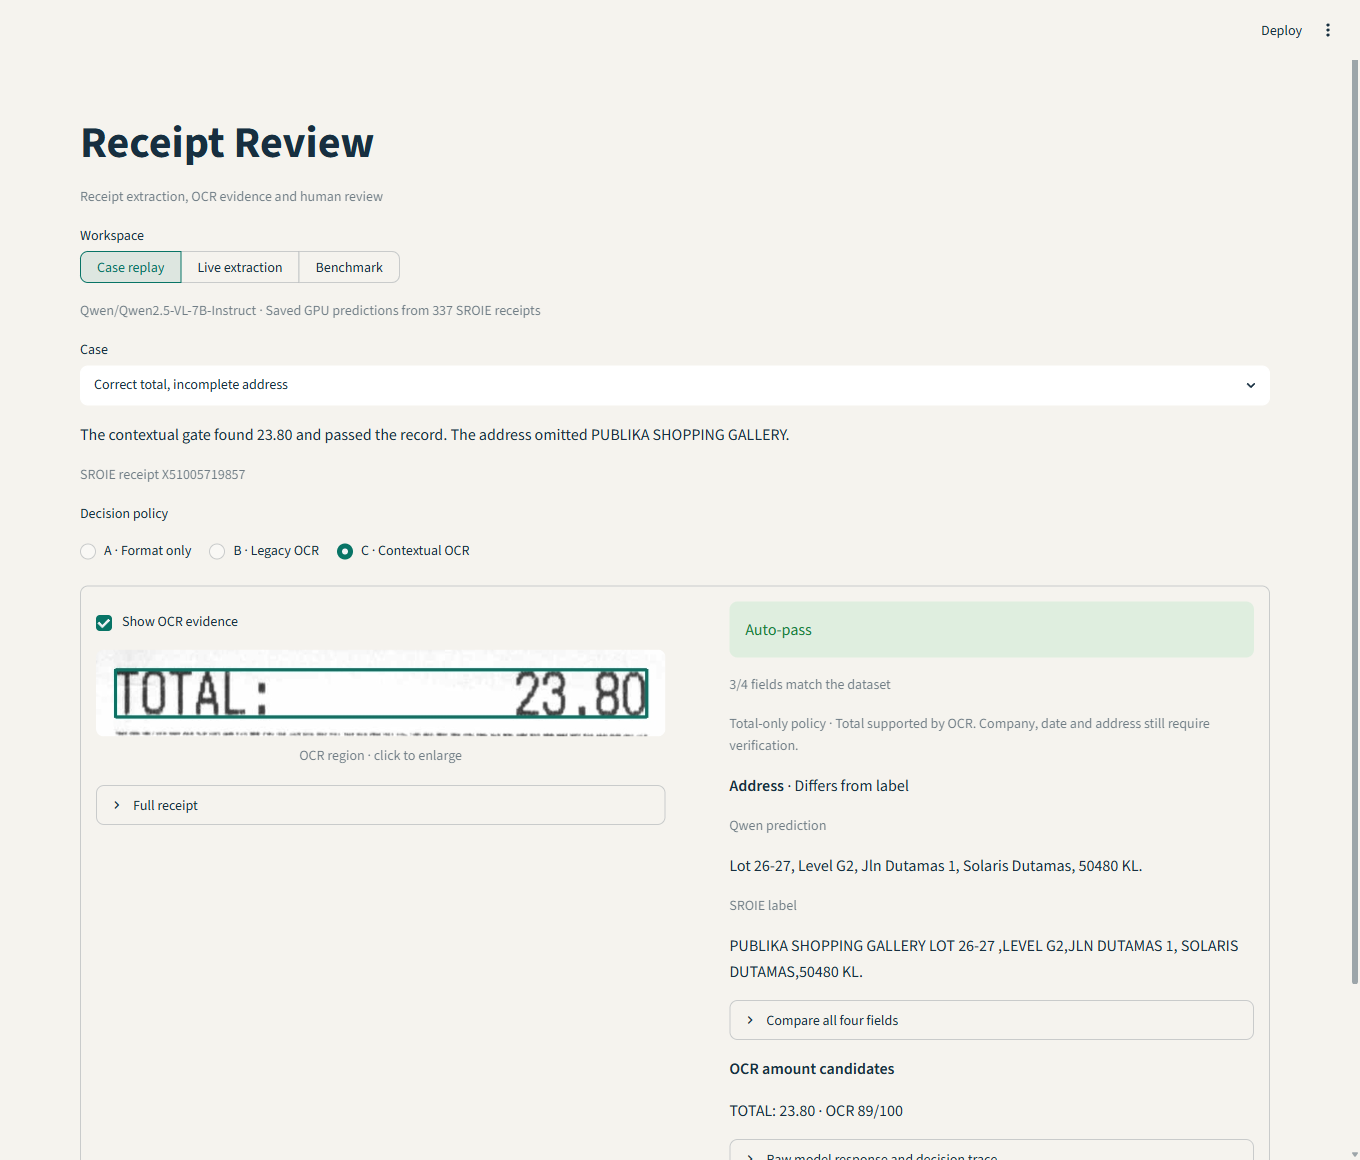
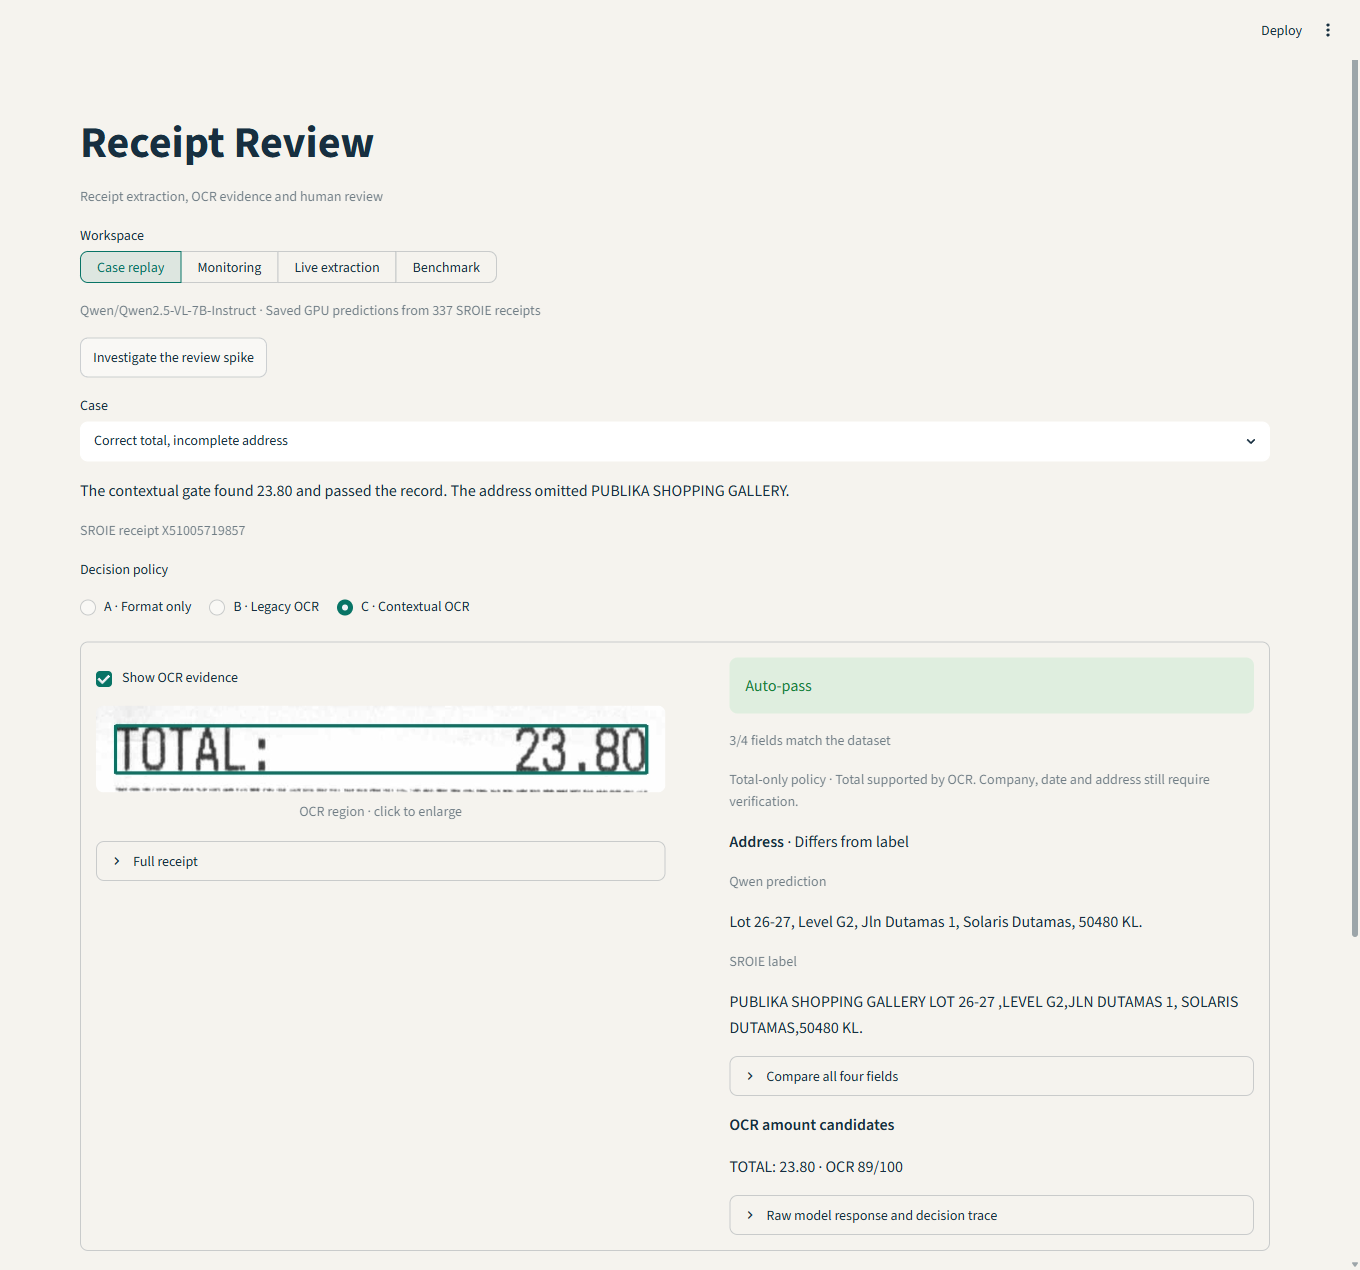
Tell the receipt review incident from alert to release decision

diff --git a/review_app.py b/review_app.py
@@ -12,6 +12,7 @@ from PIL import Image, ImageDraw
 
 from evaluation_metrics import GATES, gate_metrics
 from field_review import total_review_reasons
+from monitoring import INCIDENT_DAY, INCIDENT_RECEIPT, daily_operations, verification_text
 from receipt_pipeline import (
     FIELDS, OLLAMA_MODEL, OllamaBackend, TesseractBackend, extract_image,
     inventory, prepare_image, review_reasons, sha256_file, summarize,
@@ -146,12 +147,19 @@ def case_replay():
     source = bundle["provenance"]
     cases = {case["title"]: case for case in bundle["cases"]}
     st.caption(f"{source['model']} · Saved GPU predictions from {source['documents']} SROIE receipts")
+    incident_case = st.session_state.pop("open_incident_receipt", False)
+    if incident_case:
+        st.session_state.replay_case = next(name for name, case in cases.items()
+                                           if case["row"]["key"] == INCIDENT_RECEIPT)
+        st.session_state.replay_gate = GATES[2]
+    st.button("Investigate the review spike", on_click=navigate, args=("Monitoring",))
     choice = st.selectbox("Case", list(cases), key="replay_case")
     case = cases[choice]
     row = case["row"]
     st.write(case["lesson"])
     st.caption(f"SROIE receipt {row['key']}")
-    gate = st.radio("Decision policy", GATES, index=1, format_func=GATE_LABELS.get,
+    st.session_state.setdefault("replay_gate", GATES[1])
+    gate = st.radio("Decision policy", GATES, index=None, format_func=GATE_LABELS.get,
                     horizontal=True, key="replay_gate")
     selected = apply_gate(row, gate)
     candidates = selected["evidence"].get("candidates", [])
@@ -203,6 +211,63 @@ def case_replay():
                          "archive_sha256": source["archive_sha256"], "timings_ms": row["timings_ms"]})
                 st.download_button("Download recorded case", json.dumps(row, ensure_ascii=False, indent=2),
                                    f"{row['key']}.json", "application/json", on_click="ignore")
+    if row["key"] == INCIDENT_RECEIPT:
+        prompt_decision()
+
+
+def navigate(view, incident_receipt=False):
+    st.session_state.workspace = view
+    if incident_receipt:
+        st.session_state.open_incident_receipt = True
+
+
+def prompt_decision():
+    result = json.loads((PROJECT / "docs" / "address-dev10-result.json").read_text(encoding="utf-8"))
+    exact = result["metrics"]["address"]
+    st.subheader("Why we kept the original prompt")
+    st.caption(f"Measured Qwen A/B test · {result['documents']} diagnostic SROIE train receipts")
+    st.write(f"Address exact match stayed at {exact['baseline_correct']}/{result['documents']}. "
+             f"The new prompt fixed {exact['fixed']} address and regressed on {exact['regressed']}.")
+    st.table([
+        {"Receipt": "X51006008086", "Change": "Removed the extra AEON SHAH ALAM line",
+         "Result": "Fixed"},
+        {"Receipt": "X51006441474", "Change": "Included the printed Bentong-2 branch header",
+         "Result": "Regression"},
+    ])
+    st.write("The candidate failed the clean-control check. Keep the original prompt and test a dedicated address crop next.")
+
+
+def monitoring_view():
+    days = daily_operations()
+    by_day = {row["date"]: row for row in days}
+    st.subheader("Review operations")
+    st.caption("Simulated operations · 14 days. The linked receipt comes from the measured SROIE benchmark.")
+    selected = st.selectbox("Investigation date", list(by_day), index=list(by_day).index(INCIDENT_DAY),
+                            format_func=lambda day: day.strftime("%b %d, %Y"), key="monitor_day")
+    row = by_day[selected]
+    if selected == INCIDENT_DAY:
+        st.warning("Review spike · Address checks drove most of the new review work.")
+        st.button("Open recorded receipt", type="primary", on_click=navigate, args=("Case replay", True),
+                  help="Recorded SROIE benchmark example linked to illustrate the simulated incident.")
+    ops = st.columns(3)
+    ops[0].metric("Receipts", row["received"])
+    ops[1].metric("Needs review", f"{row['review_rate']:.1f}%")
+    ops[2].metric("End-of-day backlog", row["backlog"])
+    st.caption(f"Inference p95 {row['inference_p95_seconds']:.1f} s · "
+               f"{row['inference_errors']} inference errors · {row['completed']} reviews completed")
+    trend, detail = st.columns([1.12, 1], gap="large")
+    with trend:
+        st.markdown("**Daily review rate (%)**")
+        st.line_chart([{"Date": item["date"].isoformat(), "Needs review (%)": item["review_rate"]}
+                       for item in days], x="Date", y="Needs review (%)", height=220)
+    with detail:
+        st.markdown("**Selected day · Review reasons**")
+        st.table([{"Primary reason": reason, "Receipts": count} for reason, count in row["reasons"].items()])
+        st.markdown("**Verification**")
+        st.write(f"Address corrections · {verification_text(*row['address_edits'])}")
+        st.write(f"Total corrections · {verification_text(*row['total_edits'])}")
+        st.write(f"Errors in sampled auto-passes · {verification_text(*row['auto_pass_audit'])}")
+        st.caption("Corrections use verified fields as denominators. Auto-pass errors use audited receipts.")
 
 
 def new_receipt():
@@ -375,10 +440,13 @@ def benchmark_view():
 st.set_page_config(page_title="Receipt Review", layout="wide", initial_sidebar_state="collapsed")
 st.title("Receipt Review")
 st.caption("Receipt extraction, OCR evidence and human review")
-view = st.segmented_control("Workspace", ["Case replay", "Live extraction", "Benchmark"], default="Case replay",
-                            selection_mode="single")
+st.session_state.setdefault("workspace", "Case replay")
+view = st.segmented_control("Workspace", ["Case replay", "Monitoring", "Live extraction", "Benchmark"],
+                            selection_mode="single", key="workspace")
 if view == "Case replay":
     case_replay()
+elif view == "Monitoring":
+    monitoring_view()
 elif view == "Benchmark":
     benchmark_view()
 else:

diff --git a/monitoring.py b/monitoring.py
@@ -1,0 +1,46 @@
+"""Deterministic operations scenario for the portfolio walkthrough."""
+
+from datetime import date, timedelta
+
+START = date(2026, 11, 1)
+INCIDENT_DAY = START + timedelta(days=11)
+INCIDENT_RECEIPT = "X51005719857"
+
+# Volumes and adjudication counts are synthetic. The replay receipt is independent.
+DAILY_VOLUMES = (156, 163, 151, 167, 174, 158, 147, 166, 172, 170, 165, 228, 196, 176)
+
+
+def daily_operations():
+    days = []
+    backlog = 0
+    for index, volume in enumerate(DAILY_VOLUMES):
+        day = START + timedelta(days=index)
+        incident = day == INCIDENT_DAY
+        flagged = 146 if incident else volume * (31 + index % 4) // 100
+        address = 92 if incident else flagged // 2
+        total_evidence = 38 if incident else flagged // 3
+        completed = min(backlog + flagged, 71 if incident else 56 + index % 6)
+        verified = 0 if index == len(DAILY_VOLUMES) - 1 else min(completed, 41)
+        days.append({
+            "date": day, "received": volume, "flagged": flagged, "opening_backlog": backlog,
+            "completed": completed, "backlog": backlog + flagged - completed,
+            "review_rate": percent(flagged, volume),
+            "inference_p95_seconds": round(10.7 + (index % 5) * 0.1, 1),
+            "inference_errors": 1 + index % 2,
+            "reasons": {"Address check": address, "Unclear total evidence": total_evidence,
+                        "Other checks": flagged - address - total_evidence},
+            "address_edits": ((18 if incident else 5 + index % 3) if verified else 0, verified),
+            "total_edits": (2 if verified else 0, max(0, verified - 4)),
+            "auto_pass_audit": (0, 0) if not verified else (2 if incident else index % 2, 12),
+        })
+        backlog = days[-1]["backlog"]
+    return days
+
+
+def percent(count, denominator):
+    return 100 * count / denominator if denominator else None
+
+
+def verification_text(count, denominator):
+    value = percent(count, denominator)
+    return f"{count}/{denominator} ({value:.1f}%)" if value is not None else "Pending verification"

diff --git a/tests/test_monitoring.py b/tests/test_monitoring.py
@@ -1,0 +1,30 @@
+from monitoring import INCIDENT_DAY, daily_operations, percent, verification_text
+
+
+def test_daily_queue_and_review_reasons_reconcile():
+    days = daily_operations()
+    assert len({row["date"] for row in days}) == 14
+    previous_backlog = 0
+    for row in days:
+        assert row["opening_backlog"] == previous_backlog
+        assert row["backlog"] == previous_backlog + row["flagged"] - row["completed"]
+        assert 0 <= row["backlog"] and 0 <= row["flagged"] <= row["received"]
+        assert sum(row["reasons"].values()) == row["flagged"]
+        assert row["review_rate"] == percent(row["flagged"], row["received"])
+        for key in ("address_edits", "total_edits", "auto_pass_audit"):
+            count, denominator = row[key]
+            assert 0 <= count <= denominator
+        previous_backlog = row["backlog"]
+
+
+def test_incident_and_pending_day_have_distinct_signals():
+    days = daily_operations()
+    incident = next(row for row in days if row["date"] == INCIDENT_DAY)
+    prior = days[days.index(incident) - 1]
+    assert incident["received"] > prior["received"]
+    assert incident["review_rate"] > prior["review_rate"]
+    assert percent(*incident["address_edits"]) > percent(*prior["address_edits"])
+    assert percent(*incident["total_edits"]) == percent(*prior["total_edits"])
+    assert verification_text(*incident["auto_pass_audit"]) == "2/12 (16.7%)"
+    assert verification_text(*days[-1]["auto_pass_audit"]) == "Pending verification"
+    assert verification_text(*days[-1]["address_edits"]) == "Pending verification"

diff --git a/README.md b/README.md
@@ -1,8 +1,29 @@
 # Qwen Receipt Review
 
-**Turn a scanned receipt into structured JSON with traceable human review.** Qwen2.5-VL extracts the merchant, date, address, and total. Tesseract checks the total against the scan. A reviewer can correct the fields and export the original and approved values.
+**The total was correct. The receipt still needed a closer look.**
 
-[Input and output](#input-and-output) · [Try three recorded cases](#try-three-recorded-cases) · [Full benchmark](#full-benchmark) · [Reproduce](docs/evaluation.md#reproduce)
+![Recorded SROIE receipt with OCR evidence for 23.80 and an address missing the shopping gallery. Gate C passes the record.](assets/case-replay.png)
+
+Qwen2.5-VL turns receipt scans into structured JSON. Tesseract checks the amount against the scan, and a reviewer can correct fields before export. In this recorded case, the total check passes while the address is incomplete.
+
+[Walk through the incident](#walk-through-the-incident) · [Input and output](#input-and-output) · [Full benchmark](#full-benchmark) · [Reproduce](docs/evaluation.md#reproduce)
+
+## Walk through the incident
+
+```bash
+python -m pip install -r requirements-review.txt
+python -m streamlit run review_app.py
+```
+
+In **Case replay**, select **Investigate the review spike**. The walkthrough runs on CPU with bundled assets.
+
+1. **Detect the spike.** On November 12, the simulated review rate rises to 64.0%. Reviewers correct 18 of 41 verified addresses, while total corrections stay at 2 of 37 verified amounts. An audit of auto-passes finds 2 incorrect records in a sample of 12.
+2. **Inspect the receipt.** Open the linked SROIE example. OCR supports `23.80`. Switch from gate B to C and watch the decision change to auto-pass even though the model omitted the shopping gallery from the address.
+3. **Decide whether to ship.** In a measured ten-receipt development test, the candidate prompt removed an extra `AEON SHAH ALAM` line on one receipt and added the `Bentong-2` branch header to a previously correct address. Exact address match stayed at 3/10. The candidate failed the clean-control check, so the original prompt stayed in place. [Experiment result](docs/evaluation.md#result-on-ten-diagnostic-receipts)
+
+![Monitoring tab labeled Simulated operations, with the November 12 spike selected and a button to open the recorded receipt.](assets/monitoring-incident.png)
+
+The daily workload and audit counts are simulated. The linked scan, predictions, and A/B result come from recorded Qwen runs.
 
 ## Input and output
 
@@ -14,10 +35,10 @@
 | **Review decision** | **Needs review** because the two amounts disagree. The reviewer inspects the scan, corrects the fields, and approves the export. |
 | **Approved output** | JSON with `original` and `reviewed` field values, the approval timestamp, and the reasons that triggered review. |
 
-![Receipt input and extraction result. The OCR crop shows 6.40, Qwen predicts 6.04, and the decision is Needs review.](assets/wrong-total-review.png)
-
 <details>
-<summary>See the extracted JSON</summary>
+<summary>See the OCR evidence and extracted JSON</summary>
+
+![Receipt input and extraction result. The OCR crop shows 6.40, Qwen predicts 6.04, and the decision is Needs review.](assets/wrong-total-review.png)
 
 This is the parsed Qwen prediction before human review.
 
@@ -32,27 +53,15 @@ This is the parsed Qwen prediction before human review.
 
 </details>
 
-## Try three recorded cases
+## Explore the recorded cases
 
-```bash
-python -m pip install -r requirements-review.txt
-python -m streamlit run review_app.py
-```
-
-The **Case replay** tab opens by default and runs on CPU with the assets in this repository. Choose a receipt and switch between gates A, B and C to see the decision, OCR region, Qwen response and SROIE label. These are saved Qwen GPU predictions. **Live extraction** runs live inference through local Ollama.
+Choose a receipt and switch between gates A, B and C to see the decision, OCR region, Qwen response and SROIE label.
 
 | Receipt | What to inspect |
 | --- | --- |
 | `X51005677336` | Qwen matches all four labels. OCR surfaces conflicting amounts and holds the receipt. |
 | `X51006334927` | Qwen reads 6.04. The OCR line shows 6.40, so both evidence gates hold it. |
 | `X51005719857` | OCR supports 23.80. Gate C passes the receipt even though the address omits the shopping gallery. |
-
-<details>
-<summary>See a correct total with an incomplete address</summary>
-
-![OCR supports the 23.80 total while the address differs from the label. The contextual gate passes the receipt.](assets/case-replay.png)
-
-</details>
 
 ## Full benchmark
 
